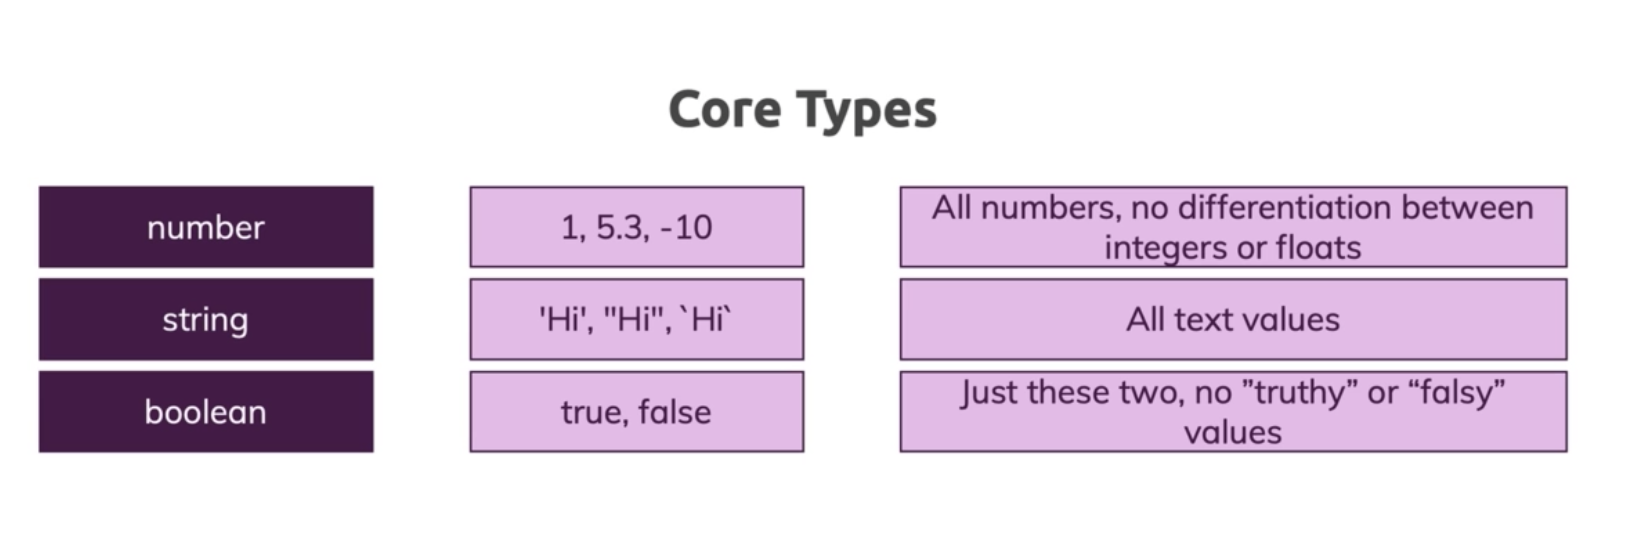
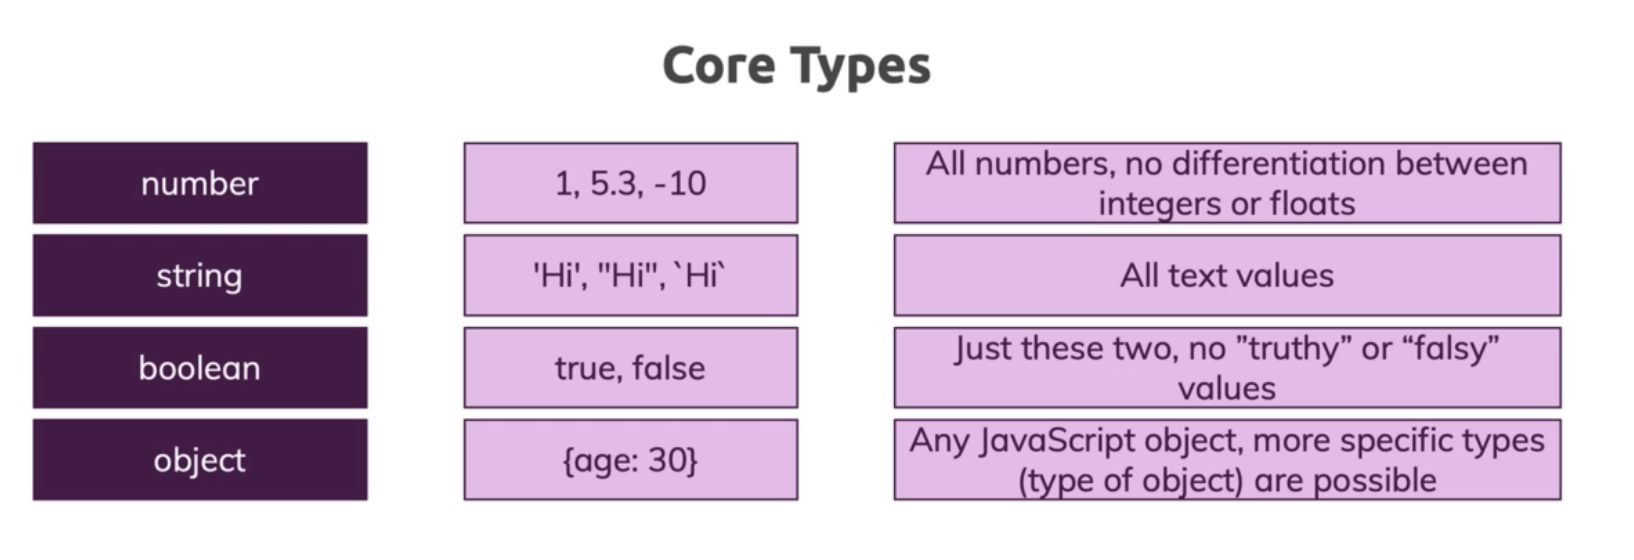
added object type

diff --git a/language_fundamentals/ts_basics_and_basic_types/object_types/app.ts b/language_fundamentals/ts_basics_and_basic_types/object_types/app.ts
@@ -1,0 +1,29 @@
+const person1 = {
+	name: 'Kunal',
+	age: 29,
+};
+console.log(person1);
+
+// console.log(person1.nickname); Property 'nickname' does not exist on type '{ name: string; age: number; }'.ts(2339)
+// TS identifies when a property does not exist and throws error
+
+// same as above but we are explicitly specifiying types
+const person2: {
+	name: string;
+	age: number;
+} = {
+	name: 'Kunal',
+	age: 29,
+};
+
+const person3: {
+	name: string;
+} = {
+	name: 'Kunal',
+	// age: 29, below error is thrown for this line
+};
+
+/**
+  Type '{ name: string; age: number; }' is not assignable to type '{ name: string; }'.
+  Object literal may only specify known properties, and 'age' does not exist in type '{ name: string; }'
+ */

diff --git a/language_fundamentals/ts_basics_and_basic_types/object_types/app.js b/language_fundamentals/ts_basics_and_basic_types/object_types/app.js
@@ -1,0 +1,19 @@
+var person1 = {
+    name: 'Kunal',
+    age: 29
+};
+console.log(person1);
+// console.log(person1.nickname); Property 'nickname' does not exist on type '{ name: string; age: number; }'.ts(2339)
+// TS identifies when a property does not exist and throws error
+// same as above but we are explicitly specifiying types
+var person2 = {
+    name: 'Kunal',
+    age: 29
+};
+var person3 = {
+    name: 'Kunal'
+};
+/**
+  Type '{ name: string; age: number; }' is not assignable to type '{ name: string; }'.
+  Object literal may only specify known properties, and 'age' does not exist in type '{ name: string; }'
+ */

diff --git a/language_fundamentals/ts_basics_and_basic_types/object_types/index.html b/language_fundamentals/ts_basics_and_basic_types/object_types/index.html
@@ -1,0 +1,13 @@
+<!DOCTYPE html>
+<html lang="en">
+<head>
+  <meta charset="UTF-8">
+  <meta name="viewport" content="width=device-width, initial-scale=1.0">
+  <meta http-equiv="X-UA-Compatible" content="ie=edge">
+  <title>Understanding TypeScript</title>
+  <script src="app.js" defer></script>
+</head>
+<body>
+  
+</body>
+</html>

diff --git a/README.md b/README.md
@@ -6,8 +6,8 @@ I have created this repo as a part of self-learning and development activity by 
 
 ## Project Structure
 
-- `language_fundamentals` → Minute details with examples on each and every topic in typescript
-- `concept_images` → Structure images for reference
+-   `language_fundamentals` → Minute details with examples on each and every topic in typescript
+-   `concept_images` → Structure images for reference
 
 ### 1. Language Fundamentals
 
@@ -16,10 +16,10 @@ I have created this repo as a part of self-learning and development activity by 
 
 #### List of topics coverd under this section:
 
-- [Intro to Typescript](https://github.com/kunalashar25/learn-typescript/blob/main/language_fundamentals/getting_started/intro_to_ts/intro_to_typescript.txt)
-- [Convert JS code to TS code](https://github.com/kunalashar25/learn-typescript/blob/main/language_fundamentals/getting_started/using_typescript)
-- [Advantages of using TS](https://github.com/kunalashar25/learn-typescript/blob/main/language_fundamentals/getting_started/ts_advantages/ts_advantages.txt)
-- [Course Outline](https://github.com/kunalashar25/learn-typescript/blob/main/concept_images/getting_started/course_outline.png)
+-   [Intro to Typescript](https://github.com/kunalashar25/learn-typescript/blob/main/language_fundamentals/getting_started/intro_to_ts/intro_to_typescript.txt)
+-   [Convert JS code to TS code](https://github.com/kunalashar25/learn-typescript/blob/main/language_fundamentals/getting_started/using_typescript)
+-   [Advantages of using TS](https://github.com/kunalashar25/learn-typescript/blob/main/language_fundamentals/getting_started/ts_advantages/ts_advantages.txt)
+-   [Course Outline](https://github.com/kunalashar25/learn-typescript/blob/main/concept_images/getting_started/course_outline.png)
 </details>
 
 <details>
@@ -27,6 +27,7 @@ I have created this repo as a part of self-learning and development activity by 
 
 #### List of topics coverd under this section:
 
-- [Using Types](https://github.com/kunalashar25/learn-typescript/blob/main/language_fundamentals/ts_basics_and_basic_types/using_types)
-- [Working with number, strings, and booleans](https://github.com/kunalashar25/learn-typescript/blob/main/language_fundamentals/ts_basics_and_basic_types/working_with_number_strings_booleans)
+-   [Using Types](https://github.com/kunalashar25/learn-typescript/blob/main/language_fundamentals/ts_basics_and_basic_types/using_types)
+-   [Working with number, strings, and booleans](https://github.com/kunalashar25/learn-typescript/blob/main/language_fundamentals/ts_basics_and_basic_types/working_with_number_strings_booleans)
+-   [Object Types](https://github.com/kunalashar25/learn-typescript/blob/main/language_fundamentals/ts_basics_and_basic_types/object_types)
 </details>
